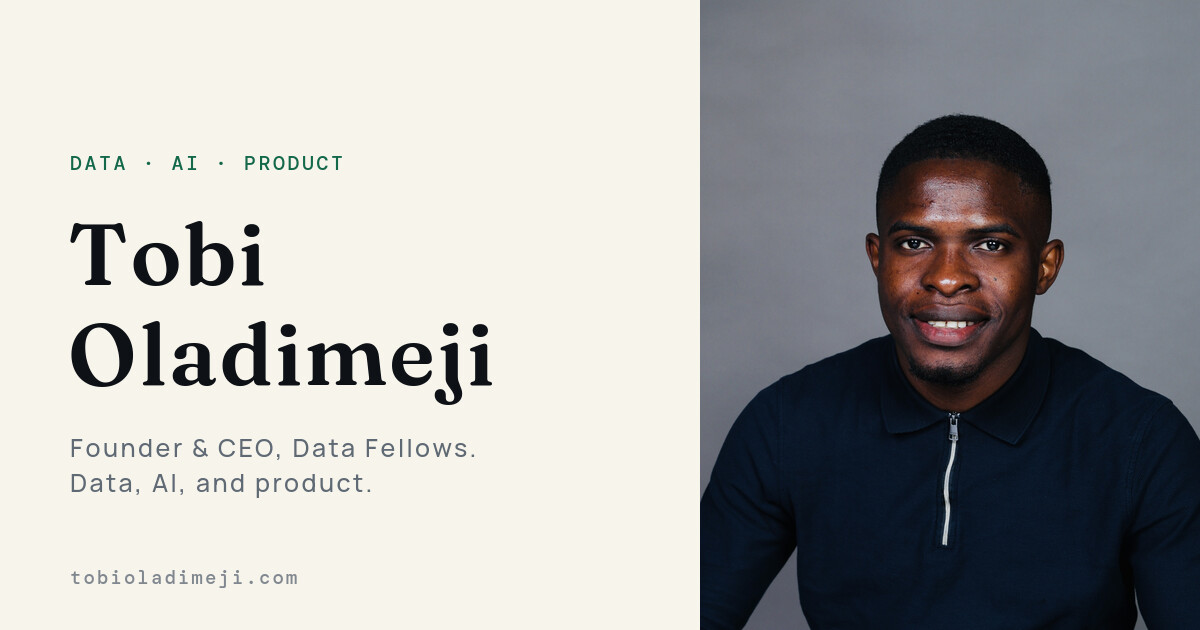
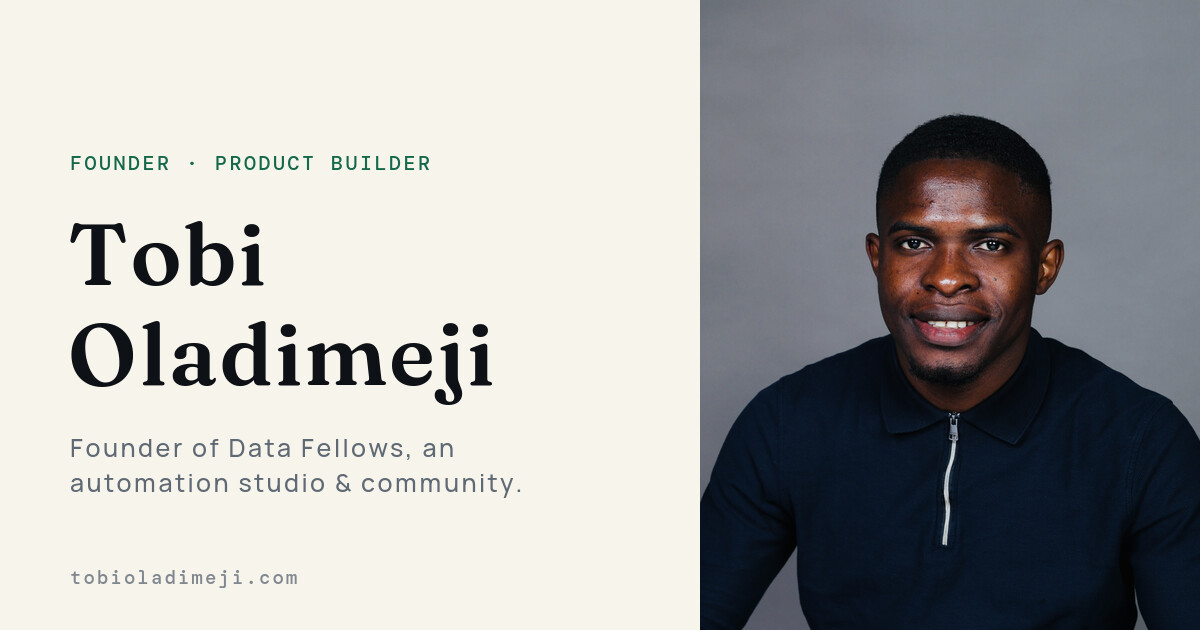
Reposition Data Fellows as an automation studio + community
Content/positioning update per your latest direction, not a redesign:

- Reverted the hero to the retained headline ("Building products,
  exploring ideas, and solving business problems through technology.")
  and merged it with a new intro back into one flowing lead paragraph,
  matching the pattern used before the "Data. AI. Product." headline
  was introduced. Removed the now-unused .hero-headline CSS rule.
- Data Fellows updated everywhere it's described (Experience entry,
  homepage Focus panel, the Data Fellows project card and its case
  study, About, profile.bio/tagline/intro, index.html meta/OG/
  Twitter/JSON-LD, llms.txt, manifest.json, and the OG share card
  image): founded in 2022 as a data and technology community, now
  grown into a global network of 1,600+ professionals across 33+
  countries and evolved into an independent automation studio that
  designs, builds, and manages software/data/AI solutions for
  organizations' recurring operational challenges, alongside
  continuing its community and professional-development work.
- About section now explicitly covers business intelligence, names
  Cohere as current independent contract work, and explains the
  community-to-automation-studio evolution while keeping the
  personal, broader data/AI/product/entrepreneurship identity (not
  repositioned exclusively around automation or consulting).
- Inscend and BizPilot remain framed as historical, concluded product
[…]

Changed region(s): [[0.0617, 0.754, 0.4317, 0.7841], [0.0617, 0.2413, 0.37, 0.2714], [0.1542, 0.6937, 0.4008, 0.7238]]

diff --git a/src/data/portfolio.ts b/src/data/portfolio.ts
@@ -133,10 +133,10 @@ export const profile: Profile = {
   linkedin: 'https://www.linkedin.com/in/tobioladimeji/',
   github: 'https://github.com/tobiolad',
   x: 'https://x.com/tobioladimeji_',
-  headline: 'Data. AI. Product.',
-  tagline: 'Founder & CEO of Data Fellows, building technology to solve hard operational problems.',
-  intro: 'I work across data, artificial intelligence and product development, exploring how technology can solve complex business and operational problems.',
-  bio: 'Tobi Oladimeji is a data, AI, and product professional, entrepreneur, and Founder & CEO of Data Fellows, a software, data, and AI company solving complex operational problems, backed by a global community of 1,600+ professionals across 33+ countries. He has worked across data, AI, and product at PwC, ESGTree, Granted Technologies, AgroMall, and Cohere, and founded Inscend, an AI-powered B2B SaaS platform for ecommerce merchants, from November 2025 to November 2026.',
+  headline: 'Building products, exploring ideas, and solving business problems through technology.',
+  tagline: 'Founder of Data Fellows, an independent automation studio and global technology community.',
+  intro: 'I’ve worked across data, AI and product development, from enterprise projects to building my own software products and businesses. I’m the founder of Data Fellows, an independent automation studio helping organizations solve recurring operational challenges through software, data and AI.',
+  bio: 'Tobi Oladimeji is a founder, product builder, and data and AI professional. He founded Data Fellows, an independent automation studio and global technology community with 1,600+ members across 33+ countries, helping organizations solve recurring operational challenges through software, data, and AI. He has worked across data, AI, and product at PwC, ESGTree, Granted Technologies, AgroMall, and Cohere, and founded Inscend, an AI-powered B2B SaaS platform for ecommerce merchants, from November 2025 to November 2026.',
 };
 
 /** Companies referenced in Tobi's professional experience, shown as a homepage reference strip, not as Data Fellows customers or partners. */
@@ -160,7 +160,7 @@ export const currentWork: CurrentWorkItem[] = [
   {
     eyebrow: 'Current focus',
     title: 'Data Fellows',
-    description: 'Data Fellows is a software, data, and AI company focused on solving complex operational problems, backed by a global community of over 1,600 professionals across 33+ countries. We build technology to solve hard problems.',
+    description: 'Data Fellows is an independent automation studio helping organizations solve recurring operational challenges through software, data, and AI. Founded in 2022 as a data and technology community, it’s grown into a global network of over 1,600 professionals across 33+ countries.',
     href: 'https://datafellowsai.com/',
     linkLabel: 'Visit datafellowsai.com',
   },
@@ -178,8 +178,8 @@ export const experience: ExperienceItem[] = [
     company: 'Data Fellows',
     role: 'Founder & CEO',
     period: 'Aug 2022 – Present',
-    summary: 'Founded and lead Data Fellows, a software, data, and AI company building technology to solve complex operational problems, backed by a global community of over 1,600 professionals across 33+ countries. Built the company’s learning programs, industry partnerships, and community operations from the ground up, and lead its product and technology direction.',
-    tags: ['Data & AI', 'Product Strategy', 'Partnerships'],
+    summary: 'Founded Data Fellows in 2022 as a community for people interested in data and technology, growing it into a global network of over 1,600 professionals across 33+ countries while leading product development, technical collaborations, industry partnerships, learning programs, and community initiatives. Today, Data Fellows operates as an independent automation studio too, designing, building, and managing solutions to recurring operational challenges through software engineering, data systems, and artificial intelligence, alongside continuing to grow the community and support professional development and technical collaboration.',
+    tags: ['Automation', 'Software & AI', 'Community'],
   },
   {
     company: 'Cohere',
@@ -275,16 +275,16 @@ export const projects: Project[] = [
   {
     title: 'Data Fellows',
     category: 'Product',
-    blurb: 'A software, data, and AI company solving complex operational problems, backed by a global community of 1,600+ professionals across 33+ countries.',
+    blurb: 'An independent automation studio and global technology community, helping organizations solve recurring operational challenges through software, data, and AI.',
     href: 'https://datafellowsai.com/',
-    tags: ['Data & AI', 'Product', 'Community'],
+    tags: ['Automation', 'Software', 'Data & AI', 'Community'],
     badge: 'Active Venture',
     caseStudy: {
-      context: 'Many data and AI professionals, especially outside major tech hubs, lack access to structured learning, mentorship, industry connections, and the tooling to turn that knowledge into real products.',
-      problem: 'Opportunities in data and AI weren’t evenly accessible, and there was no single place bringing practitioners together across regions to learn, build, and ship.',
-      contribution: 'Founded and lead Data Fellows, building its programs, partnerships, and community operations from the ground up, and now lead its product and technology direction.',
-      approach: 'Built learning programs, professional development initiatives, and industry partnerships, then grew that into a software, data, and AI company building technology to solve complex operational problems for the community it serves.',
-      outcome: 'Grew Data Fellows into a global community of 1,600+ professionals across 33+ countries, which now backs an active software, data, and AI company.',
+      context: 'Many data and AI professionals, especially outside major tech hubs, lack access to structured learning, mentorship, and industry connections, while organizations everywhere carry recurring operational problems that don’t fit an off-the-shelf software product.',
+      problem: 'Opportunities in data and AI weren’t evenly accessible, and there was no single place bringing practitioners together across regions, while many operational challenges stayed unsolved because they needed something built around the specific problem.',
+      contribution: 'Founded Data Fellows in 2022 as a community for people interested in data and technology, and grew it into an organization that also designs and builds automation solutions for real operational problems.',
+      approach: 'Built learning programs, professional development initiatives, and industry partnerships to grow the community, then added software engineering, data systems, and AI capability to design, build, and manage automation solutions for organizations’ recurring operational challenges.',
+      outcome: 'Grew Data Fellows into a global network of 1,600+ professionals across 33+ countries, which now also operates as an independent automation studio.',
     },
   },
   {

diff --git a/index.html b/index.html
@@ -26,28 +26,28 @@
     <link href="https://fonts.googleapis.com/css2?family=DM+Mono:wght@400;500&family=Manrope:wght@400;500;600;700;800&family=Fraunces:ital,opsz,wght@0,9..144,400;0,9..144,500;0,9..144,600;1,9..144,500&display=swap" rel="stylesheet">
     <link rel="preload" as="image" href="/images/headshot3.jpg" fetchpriority="high">
 
-    <title>Tobi Oladimeji | Data. AI. Product.</title>
-    <meta name="description" content="Tobi Oladimeji is a data, AI, and product professional, entrepreneur, and Founder & CEO of Data Fellows, a software, data, and AI company solving complex operational problems, backed by a global community of 1,600+ professionals across 33+ countries."/>
+    <title>Tobi Oladimeji | Founder & Data/AI Professional</title>
+    <meta name="description" content="Tobi Oladimeji is a founder, product builder, and data and AI professional. He founded Data Fellows, an independent automation studio and global technology community helping organizations solve recurring operational challenges through software, data, and AI."/>
     <link rel="canonical" href="https://tobioladimeji.com/" />
 
     <meta property="og:url" content="https://tobioladimeji.com/" />
     <meta property="og:type" content="website" />
     <meta property="og:site_name" content="Tobi Oladimeji" />
-    <meta property="og:title" content="Tobi Oladimeji | Data. AI. Product." />
-    <meta property="og:description" content="Founder & CEO of Data Fellows. Working across data, artificial intelligence, and product development to solve complex business and operational problems." />
+    <meta property="og:title" content="Tobi Oladimeji | Founder & Data/AI Professional" />
+    <meta property="og:description" content="Founder of Data Fellows, an independent automation studio and global technology community. Working across data, AI, and product development to solve business and operational problems." />
     <meta property="og:image" content="https://tobioladimeji.com/images/og-card.jpg" />
     <meta property="og:image:type" content="image/jpeg" />
     <meta property="og:image:width" content="1200" />
     <meta property="og:image:height" content="630" />
-    <meta property="og:image:alt" content="Tobi Oladimeji: Data. AI. Product. Founder & CEO, Data Fellows." />
+    <meta property="og:image:alt" content="Tobi Oladimeji: Founder, Product Builder, Data & AI Professional." />
 
     <meta name="twitter:card" content="summary_large_image" />
     <meta property="twitter:domain" content="tobioladimeji.com" />
     <meta property="twitter:url" content="https://tobioladimeji.com/" />
-    <meta name="twitter:title" content="Tobi Oladimeji | Data. AI. Product." />
-    <meta name="twitter:description" content="Founder & CEO of Data Fellows. Working across data, artificial intelligence, and product development to solve complex business and operational problems." />
+    <meta name="twitter:title" content="Tobi Oladimeji | Founder & Data/AI Professional" />
+    <meta name="twitter:description" content="Founder of Data Fellows, an independent automation studio and global technology community. Working across data, AI, and product development to solve business and operational problems." />
     <meta name="twitter:image" content="https://tobioladimeji.com/images/og-card.jpg" />
-    <meta name="twitter:image:alt" content="Tobi Oladimeji: Data. AI. Product. Founder & CEO, Data Fellows." />
+    <meta name="twitter:image:alt" content="Tobi Oladimeji: Founder, Product Builder, Data & AI Professional." />
 
     <script type="application/ld+json">
     {
@@ -60,7 +60,7 @@
         "url": "https://tobioladimeji.com/",
         "image": "https://tobioladimeji.com/images/headshot3.jpg",
         "jobTitle": "Founder & CEO",
-        "description": "Data, AI, and product professional, entrepreneur, and Founder & CEO of Data Fellows.",
+        "description": "Founder, product builder, and data and AI professional. Founder & CEO of Data Fellows, an independent automation studio and global technology community.",
         "worksFor": [
           { "@type": "Organization", "name": "Data Fellows", "url": "https://datafellowsai.com/" }
         ],

diff --git a/src/components/About.tsx b/src/components/About.tsx
@@ -9,9 +9,9 @@ const About = () => (
     <div className="about-grid">
       <div className="story">
         <p className="lede">Data, AI, and product aren’t separate lanes for me. They’re how I’ve approached every problem, in enterprise and in my own company.</p>
-        <p>I’ve worked across data, AI, and product at PwC, ESGTree, Granted Technologies, and AgroMall, as an AI data trainer with Cohere, and through my own ventures at Data Fellows, including Inscend.</p>
+        <p>I’ve worked across data analytics, artificial intelligence, business intelligence, and product development at PwC, ESGTree, and Granted, and I currently do independent contract work with Cohere, alongside building my own ventures through Data Fellows, including Inscend.</p>
         <p>That range, from enterprise data transformation to AI-assisted product work to leading my own company, is what I bring to every problem: the rigor of structured analysis and the judgment to turn it into something that actually works.</p>
-        <p>As Founder &amp; CEO of Data Fellows, I’m building technology to solve hard operational problems, backed by a global community of 1,600+ professionals across 33+ countries, and I’m open to the right opportunities, technical collaborations, and conversations about complex organizational problems alongside that.</p>
+        <p>I founded Data Fellows in 2022 as a community for people interested in data and technology, and it’s grown into a global network of 1,600+ professionals across 33+ countries. It’s since evolved into an independent automation studio too: alongside the community, learning programs, and industry partnerships, we now design, build, and manage automation solutions for organizations’ recurring operational challenges. I’m still open to the right opportunities, technical collaborations, and conversations about complex organizational problems alongside that.</p>
         <p className="human">Outside the work, I play saxophone and enjoy mentoring people early in their data and technology careers.</p>
       </div>
       <div className="capability-grid">

diff --git a/src/components/Header.tsx b/src/components/Header.tsx
@@ -54,8 +54,7 @@ const Header = ({ onOpenPalette }: { onOpenPalette: () => void }) => {
                      </span>
                   ))}
                </h1>
-               <p className="hero-headline" data-hero-item>{profile.headline}</p>
-               <p className="lead" data-hero-item>{profile.intro}</p>
+               <p className="lead" data-hero-item>{profile.headline} {profile.intro}</p>
                <div className="actions" data-hero-item>
                   <a className="button primary" href="#work" onClick={handleNav('#work')}>
                      Explore My Work <IconArrow />

diff --git a/src/App.css b/src/App.css
@@ -164,14 +164,6 @@
   display: inline-block;
 }
 
-.hero-headline {
-  font-weight: 700;
-  font-size: clamp(1.3rem, 2.1vw, 1.7rem);
-  letter-spacing: -0.02em;
-  color: var(--text);
-  margin-bottom: 10px;
-}
-
 .lead {
   max-width: 720px;
   color: var(--muted);
